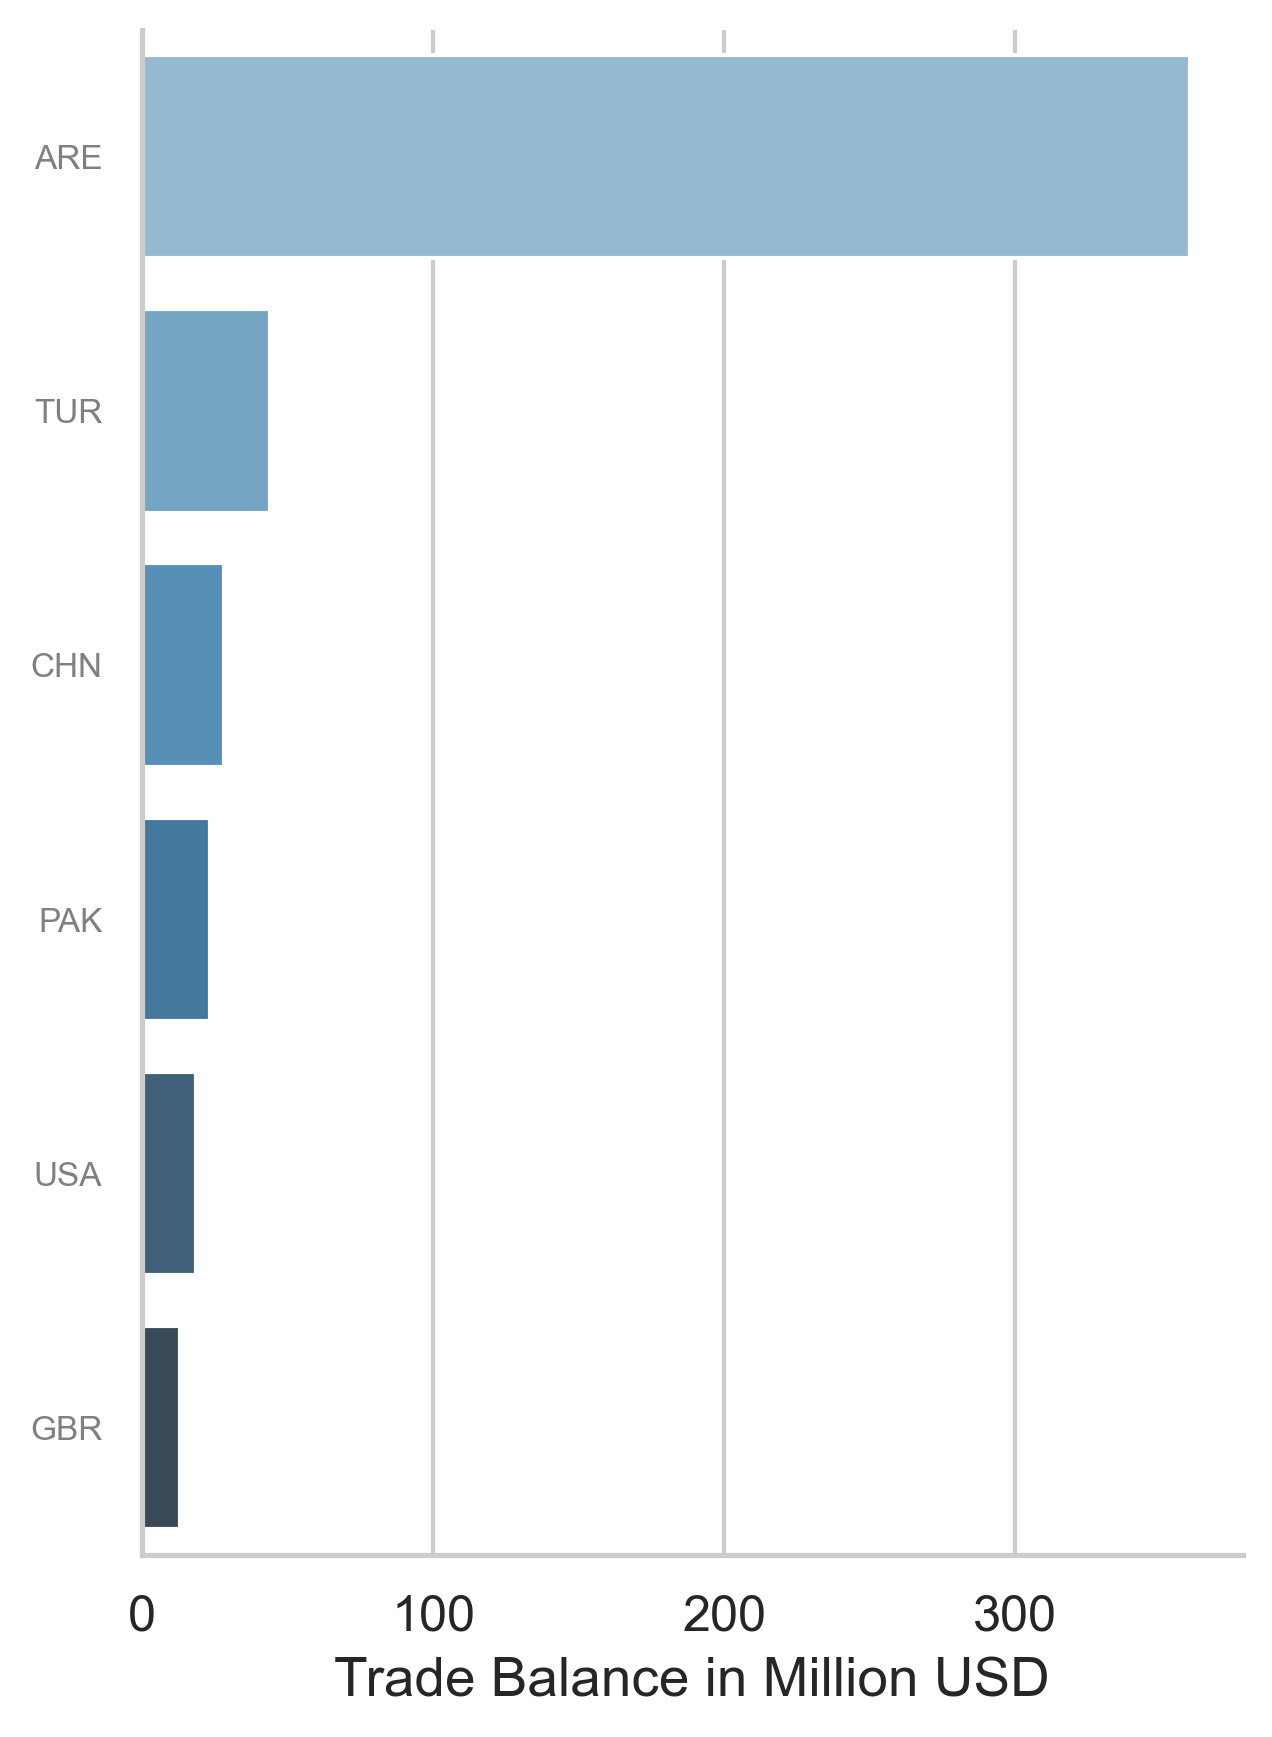
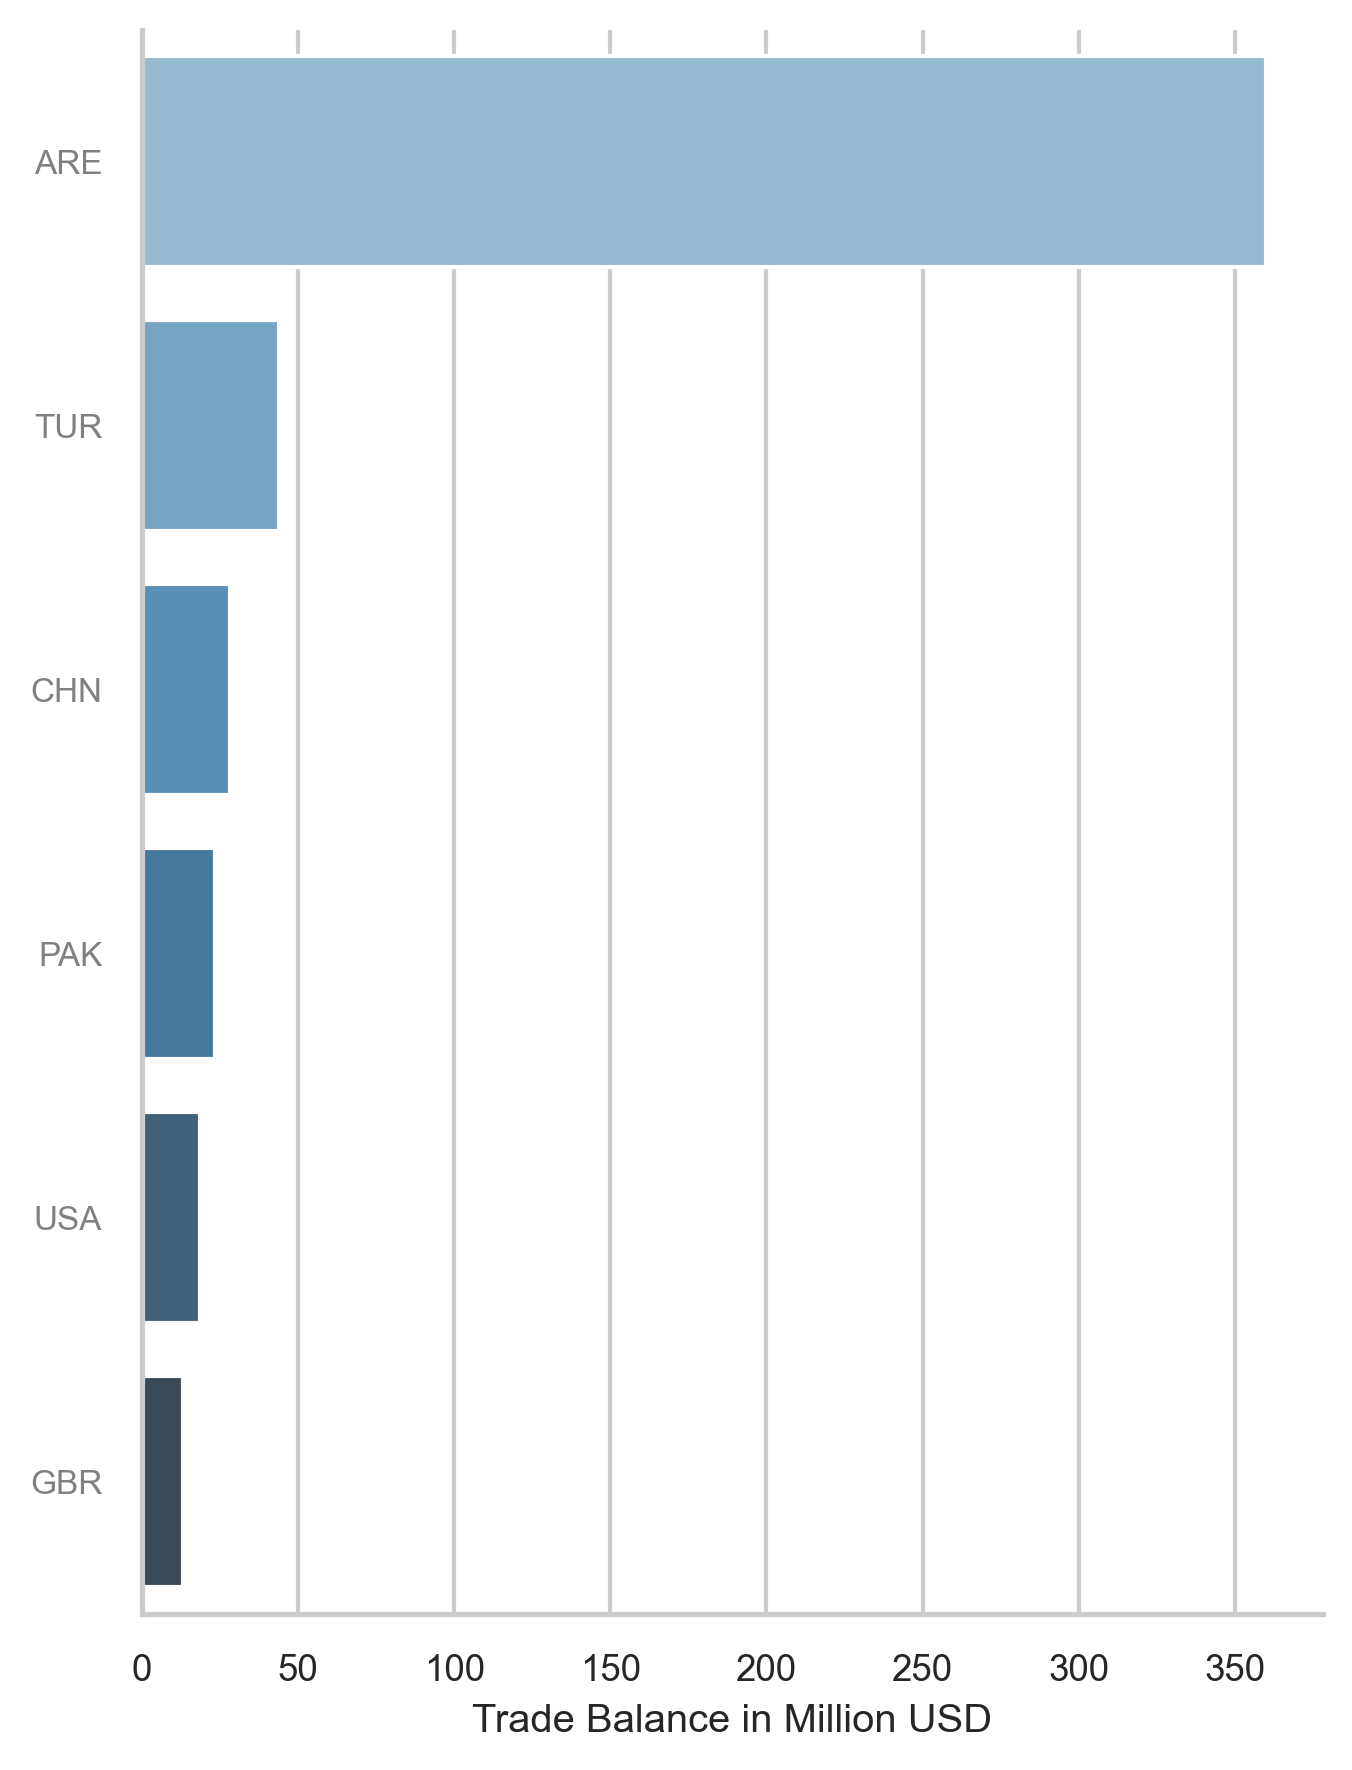
update rwa analysis

Changed region(s): [[0.2759, 0.1554, 0.8278, 0.9948], [0.0307, 0.0, 0.2453, 0.9637], [0.8892, 0.1554, 0.9505, 0.9637]]

diff --git a/python/explore_energy_generation.py b/python/explore_energy_generation.py
@@ -43,7 +43,7 @@ rwa_df['trade_balance_millions'] = rwa_df['trade_balance'] / 1000000
 top10 = rwa_df.sort_values(by='trade_balance', ascending=False).head(20)
  
 # Make the font human readable 
-sns.set(font_scale=1.1)
+sns.set(font_scale=0.8)
 sns.set_style("whitegrid")
 sns.catplot(x='trade_balance_millions', y='partner_code', data=top10, palette='Blues_d', kind='bar', height=6, aspect=0.8)
 plt.title('')
